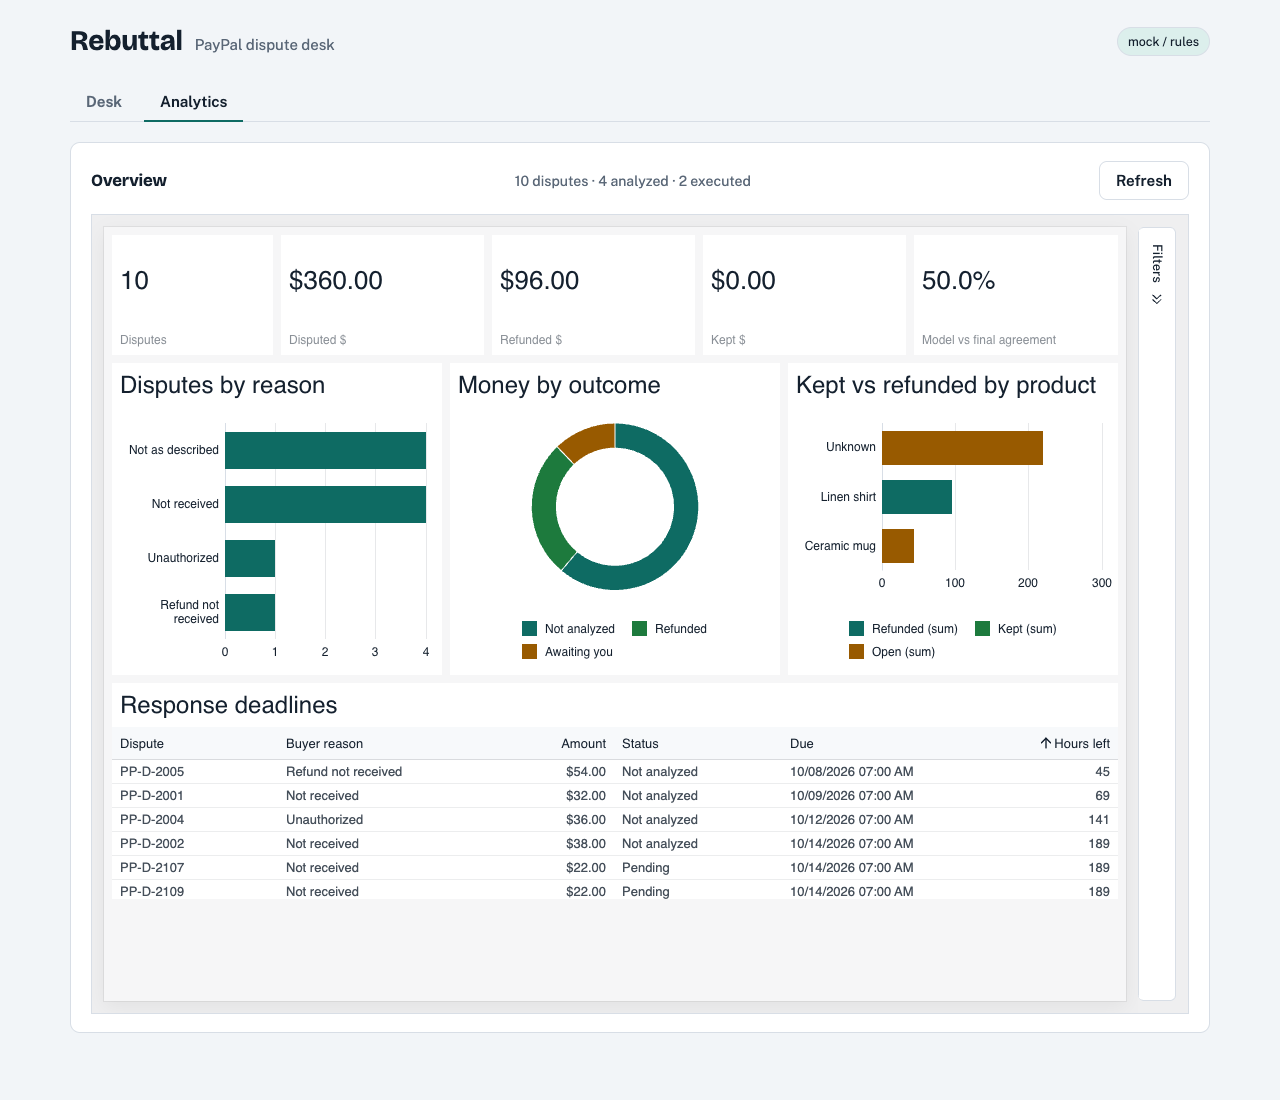
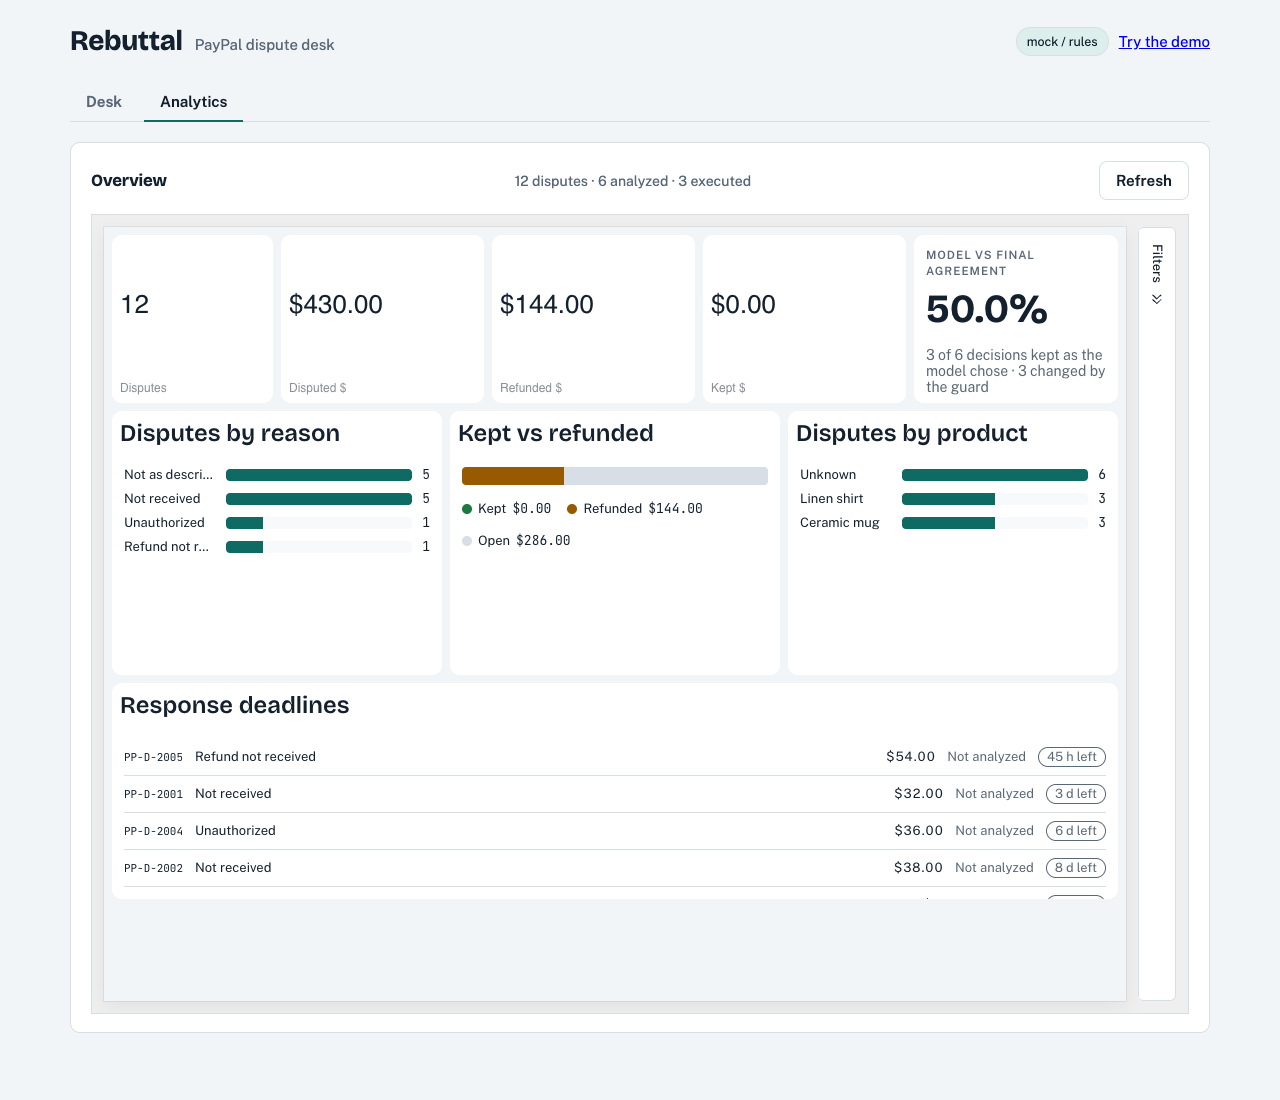
B1b: custom Studio widgets, theme, spec and docs
Fix the colour-scheme spec to read the widget card, give the KPI row room for the agreement detail, refresh the screenshot, and update STATUS, QUEUE and docs/ag-studio.md.

diff --git a/frontend/src/components/analytics/studioConfig.ts b/frontend/src/components/analytics/studioConfig.ts
@@ -172,14 +172,14 @@ export const DASHBOARD_STATE: AgReportState<RebuttalRegistry> = {
         },
       },
       widgetLayout: {
-        'kpi-disputes': { xTrack: 0, yTrack: 0, xSpan: 4, ySpan: 8 },
-        'kpi-disputed': { xTrack: 4, yTrack: 0, xSpan: 5, ySpan: 8 },
-        'kpi-refunded': { xTrack: 9, yTrack: 0, xSpan: 5, ySpan: 8 },
-        'kpi-kept': { xTrack: 14, yTrack: 0, xSpan: 5, ySpan: 8 },
-        agreement: { xTrack: 19, yTrack: 0, xSpan: 5, ySpan: 8 },
-        'bar-reason': { xTrack: 0, yTrack: 8, xSpan: 8, ySpan: 20 },
-        'money-split': { xTrack: 8, yTrack: 8, xSpan: 8, ySpan: 20 },
-        'bar-product': { xTrack: 16, yTrack: 8, xSpan: 8, ySpan: 20 },
+        'kpi-disputes': { xTrack: 0, yTrack: 0, xSpan: 4, ySpan: 11 },
+        'kpi-disputed': { xTrack: 4, yTrack: 0, xSpan: 5, ySpan: 11 },
+        'kpi-refunded': { xTrack: 9, yTrack: 0, xSpan: 5, ySpan: 11 },
+        'kpi-kept': { xTrack: 14, yTrack: 0, xSpan: 5, ySpan: 11 },
+        agreement: { xTrack: 19, yTrack: 0, xSpan: 5, ySpan: 11 },
+        'bar-reason': { xTrack: 0, yTrack: 11, xSpan: 8, ySpan: 17 },
+        'money-split': { xTrack: 8, yTrack: 11, xSpan: 8, ySpan: 17 },
+        'bar-product': { xTrack: 16, yTrack: 11, xSpan: 8, ySpan: 17 },
         deadlines: { xTrack: 0, yTrack: 28, xSpan: 24, ySpan: 14 },
       },
     },

diff --git a/frontend/e2e/analytics.spec.ts b/frontend/e2e/analytics.spec.ts
@@ -68,10 +68,11 @@ const readBars = (page: Page, id: string): Promise<Bar[]> =>
 
 const sum = (values: number[]) => values.reduce((total, value) => total + value, 0)
 
-// The agreement widget's box is the Studio widget around it, which is what carries the colour scheme.
+// The agreement widget's card is Studio's .ag-studio-layout-widget-container (the plain .ag-studio-layout-widget is
+// transparent); its background is the theme's widget background, so it changes with the colour scheme.
 const widgetBackground = (page: Page) =>
   widget(page, 'agreement').evaluate((el) => {
-    const box = el.closest('.ag-studio-layout-widget')
+    const box = el.closest('.ag-studio-layout-widget-container')
     if (!box) throw new Error('the agreement widget is not inside a Studio widget')
     return getComputedStyle(box).backgroundColor
   })

diff --git a/docs/ag-studio.md b/docs/ag-studio.md
@@ -77,16 +77,31 @@ import { AgStudio } from 'ag-studio-react'
 - Colour mode comes from the `data-ag-theme-mode` attribute on `<html>` or `<body>`, or on any ancestor with the `ag-theme-mode` class. The built-in modes are `light`, `dark` and `dark-blue`. Define your own mode by passing its name as the second argument, for example `studioTheme.withParams({...}, 'light')`.
 - Widget params go through the same theme: `gridCellTextColor` for grid widgets and `chartAxisLineColor` for chart widgets. The [theme builder](https://www.ag-grid.com/studio/archive/3.0.0/react/theme-builder/) can export theme code.
 - Do not theme Studio with AG Grid's standalone `themeQuartz` or with CSS theme files (project skill).
-- Palette: `preview/template.html` uses accent `#0e6b63` in light mode and `#4cc2b4` in dark mode. The Inbox already uses `themeQuartz` with that palette and the same `data-ag-theme-mode` attribute (`frontend/src/components/Inbox.tsx`), so one attribute switches both. The Studio theme params are the part still to build.
+- Palette: `preview/template.html` uses accent `#0e6b63` in light mode and `#4cc2b4` in dark mode. The Inbox already uses `themeQuartz` with that palette and the same `data-ag-theme-mode` attribute (`frontend/src/components/Inbox.tsx`), so one attribute switches both.
+- Our theme (`DASHBOARD_THEME` in `frontend/src/components/analytics/studioConfig.ts`) sets, for both modes: `accentColor`, `foregroundColor`, `fontFamily`, `gridHeaderBackgroundColor`, the chart palette, and the card look from the preview tokens: `studioCanvasBackgroundColor` (`--bg`), `studioWidgetBackgroundColor` (`--surface`), `studioWidgetBorder` (`--line`, 1px), `studioWidgetBorderRadius` (10, `--r`) and `studioWidgetTitleFontFamily` (the display font). `widgetBorderColor` is a page-layout state value and `headerFontFamily` is not a shared theme param, so neither is used. `e2e/analytics.spec.ts` checks that the card background changes with the colour scheme.
 
-## 6. Custom widgets (planned for part 2, not built in part 1)
+## 6. Custom widgets (built in B1b)
 
 - Define a widget with `AgWidgetDefinition`: `id`, `label`, `icon`, `dataMapping`, `form`, `defaultState`, `formatShape`, `extends` (pre-configures a built-in type such as `grid`) and `comp` (the React component). See [custom widgets](https://www.ag-grid.com/studio/archive/3.0.0/react/custom-widgets/).
 - Register the definitions with the `widgets` prop, built with `createWidgets` imported from `ag-studio-react`. Do not import it from `ag-studio`, so the React defaults apply.
 - `comp` receives `AgWidgetParams`: `api`, `context`, `widgetId`, `widgetType`, `format`, `dataMapping`, `sort`, `config` and `widgetApi`. Load data with `widgetApi.getData(request)`. Set the display state with `widgetApi.setDisplayState(...)`: `displayed`, `loading`, `noData` or `incompleteDataMapping`.
-- The licence limit in section 3 applies: no AG Grid or AG Charts Enterprise features inside custom widgets.
+- The licence limit in section 3 applies: no AG Grid or AG Charts Enterprise features inside custom widgets. Ours are plain React and CSS.
 
-## 7. Studio Agent Framework (planned for part 3)
+What the Analytics tab uses (`frontend/src/components/analytics/widgets/`):
+
+| Type id | Component | Data slots | Dashboard widgets |
+| --- | --- | --- | --- |
+| `rb-ranked-bars` | `RankedBarsWidget` | `category`, `value` | `bar-reason`, `bar-product` |
+| `rb-money-split` | `MoneySplitWidget` | `parts` (kept, refunded, open) | `money-split` |
+| `rb-deadlines` | `DeadlineListWidget` | `cols` | `deadlines` |
+| `rb-agreement` | `AgreementWidget` | `metrics` (rate, compared, agreed, guard changes) | `agreement` |
+
+- `index.ts` holds the four definitions and `RB_WIDGETS`, one module-level `createWidgets<RebuttalRegistry>(...)` result. `RebuttalRegistry` extends `AgRegistry` so the type ids are typed in `AgReportState<RebuttalRegistry>`. `StudioDashboard.tsx` passes `widgets={RB_WIDGETS}` to `AgStudio<RebuttalRegistry>`.
+- `useWidgetRows` is the shared hook. It sets the display state, calls `widgetApi.getData({ fields })` for the fields mapped to the named slots, and drops late answers. A failed request shows `noData`.
+- Each component renders `data-widget-id` (the dashboard widget id), and rows carry `data-testid` plus value attributes, so `frontend/e2e/analytics.spec.ts` checks the numbers against `GET /api/analytics`.
+- Custom widgets read colours and fonts from the CSS variables in `index.css` (`--accent`, `--muted`, `--line`, `--display`), which follow the colour scheme. The card around each widget is Studio's, and takes its colours from the theme (section 5).
+
+## 7. Studio Agent Framework (not built; planned for part 3)
 
 - Users explore data and build or change dashboards in natural language, using an LLM that the host app supplies. Studio ships no model, server or backend, and sends no data to an AG Grid service ([agent overview](https://www.ag-grid.com/studio/archive/3.0.0/react/ai/)). It is opt-in. The project skill says it is experimental and its behaviour varies by LLM.
 - Enable it by registering the module, `<AgStudioProvider modules={[AgStudioAiModule]}>`, then pass `ai={({ api }) => createAiHarness(api, { adapter, promptStarters, models })}` to `AgStudio` ([AI quick start](https://www.ag-grid.com/studio/archive/3.0.0/react/ai-quickstart/)).
@@ -100,7 +115,7 @@ import { AgStudio } from 'ag-studio-react'
 - Cost: npm install only. No licence purchase. The watermark is accepted under the Discord comment (section 3).
 - Fallback if Studio fails to build or run: AG Grid Community plus AG Charts Community with the same endpoints. Both are MIT on npm (`ag-grid-community` 36.2.0, `ag-charts-community` 14.2.0).
 
-Fallback used: no. Studio 3.0.0 built and ran with Vite 8 and React 19 (PR for B1a); the Analytics tab uses it as planned.
+Fallback used: no. Studio 3.0.0 built and ran with Vite 8 and React 19 (PR for B1a); the Analytics tab uses it as planned. B1b replaced the four built-in charts and the grid with custom widgets.
 
 ## 9. NOT VERIFIED
 
@@ -108,9 +123,9 @@ Fallback used: no. Studio 3.0.0 built and ran with Vite 8 and React 19 (PR for B
   watermark shows; the unlicensed banner appears as console errors only. Checked once, in the mock-backed build.
 - Whether the Discord confirmation covers Studio specifically. It was given for AG Grid (repo `CLAUDE.md`).
 - The 45-day trial length. The trial and pricing pages we could reach do not state it, and the pricing page is sales copy.
-- Bundle size, measured in B1a: the lazy Analytics chunk is about 4.4 MB (1.2 MB gzip), and the main chunk grew about
+- Bundle size, measured in B1a and unchanged by B1b: the lazy Analytics chunk is about 4.4 MB (1.2 MB gzip), and the main chunk grew about
   41 kB. Trimming (for example dropping `AllCommunityModule` from the Inbox) is a later task.
 - Dispute coverage. The analytics read one `list_disputes` call, which is not paginated (`PayPalClient.list_disputes`),
   so the totals cover only the first page PayPal returns. Paging through `next_page` is a later task.
 - The Agent Framework with Groq. It needs the backend proxy and an adapter that we write.
-- Custom widget runtime behaviour beyond the documented API.
+- Custom widget runtime behaviour beyond the documented API. Checked in B1b by the Playwright run: `getData` rows are keyed by `field.key` (the widgets read `row[field.key]` and the spec compares the rendered numbers with the API). Studio's dev validations (`enableStudioDevValidations`) logged nothing besides the licence banner on the Analytics tab.

diff --git a/STATUS.md b/STATUS.md
@@ -64,8 +64,16 @@ Read this at the start of a session; update it at the end of every task. Last up
   (`backend/rebuttal/analytics.py`, same API token as the other reads, PayPal read through `client.read_only()`; a
   waiting dispute's due date is read from the dispute because the list summary may omit it). Frontend: lazy-loaded
   **Analytics** tab with an AG Studio 3.0.0 dashboard (`ag-studio` + `ag-studio-react`, unlicensed with the watermark
-  allowed on Discord; five KPIs, three charts, deadlines grid, light and dark). Notes: `docs/ag-studio.md`;
+  allowed on Discord; four Studio KPI values, light and dark). Notes: `docs/ag-studio.md`;
   screenshot `docs/screenshots/analytics.png`. Fallback to Community grid/charts not needed.
+- **Analytics custom widgets and theme (B1 parts 2-3, branch `autopilot/b1-widgets-theme`):** four custom React widgets
+  registered with `createWidgets` (`frontend/src/components/analytics/widgets/`): ranked bars (used for reason and for
+  product), money split (kept, refunded, open), deadline list and model-vs-final agreement. They replace the Studio
+  charts and grid; all data still comes from `GET /api/analytics` (no backend change). The Studio theme takes the
+  preview tokens (canvas, card background, border, radius, title font) in light and dark. `e2e/analytics.spec.ts` now
+  checks every widget against the API and that the card colour follows the colour scheme. The Studio Agent Framework
+  is not built: it needs a backend proxy to Groq plus our own adapter, which is a separate task (and no key goes in
+  the frontend).
 - **Judge demo mode (A6, branch `feat/demo-mode`):** "Try the demo" (`/#demo`) gives each visitor a private mock-only
   Runtime (mock PayPal, rules reasoner, in-memory checkpoints and audit, no database, no tracing) behind the public
   `/api/demo/{session}/...` routes, with hard bounds (40 sessions, 30 min idle, 2 h max age, 16 disputes, 20 creates or
@@ -74,7 +82,7 @@ Read this at the start of a session; update it at the end of every task. Last up
   approve button still runs the one `execute` node, on the mock. Every other `/api` route keeps the token
   (`tests/test_demo_isolation.py`). Frontend: `App.tsx` is now a router shell over `Dashboard`, `DemoApp` and the shared
   `Desk`. Docs: `docs/demo-mode.md`, ADR 0009. Not verified: a run against the deployed Render service.
-- **Tests:** 376 pass (backend), 25 Playwright tests (23 run, 2 skipped); the PayPal write boundary (only `approval.py`'s `execute`) is enforced by tests.
+- **Tests:** 398 pass (backend), 29 Playwright tests (27 run, 2 skipped); the PayPal write boundary (only `approval.py`'s `execute`) is enforced by tests.
 
 ## Known issues (analytics)
 
@@ -91,8 +99,8 @@ Read this at the start of a session; update it at the end of every task. Last up
 ## Next, in order
 
 1. Autopilot queue: `docs/autopilot/QUEUE.md` (source of truth for what is next).
-2. B1 parts 2-3: custom Studio widgets (`createWidgets`) and the Agent Framework (browser adapter proxied through the
-   backend, read-only); trim `AllCommunityModule`. Then frontend slice 2: Studio polish, Render static site, point the dashboard at the
+2. B1 part 3: the Studio Agent Framework (browser adapter proxied through the backend, read-only); trim
+   `AllCommunityModule`. Then frontend slice 2: Studio polish, Render static site, point the dashboard at the
    live sandbox with `VITE_API_BASE` + `VITE_API_TOKEN`. Slice 1 is done (see above). Build and test with
    `REBUTTAL_REASONER=rules`, `REBUTTAL_MOCK=1` to save Groq tokens (`REBUTTAL_PROVIDER=rules` is not a valid value).
 3. Video script by **Oct 12**; rough cut Oct 23.

diff --git a/docs/autopilot/QUEUE.md b/docs/autopilot/QUEUE.md
@@ -108,7 +108,7 @@ once (respects one Groq eval per day), update `backend/evals/RESULTS.md`, `STATU
 `docs/video-script.md`. Change no agent code because of the result. A8 must run on a different day than the holdout2 Groq run (B3), so the
 two do not share one day's Groq quota.
 
-### B1 AG Studio dashboard, first pass — size L — in progress: part 1 (data endpoints, Studio integration, first dashboard view) in review (PR #16); parts 2-3 custom widgets and Agent Framework todo — deadline Oct 23
+### B1 AG Studio dashboard, first pass — size L — in progress: part 1 (data endpoints, Studio integration, first dashboard view) in review (PR #16); parts 2-3: custom widgets and theme in review (B1b, PR #PRN), Agent Framework todo — deadline Oct 23
 Main sponsor prize. Use the `ag-dev` skill and `ag-mcp` for AG Studio APIs in the installed version. Analytics view:
 disputes by reason and by product, money kept vs refunded, response deadlines, model-vs-final agreement from the
 audit log. Custom widgets and a theme matching `preview/`. New read-only backend endpoints for the aggregates (with

diff --git a/docs/autopilot/SKILLS.md b/docs/autopilot/SKILLS.md
@@ -79,3 +79,4 @@ webapp-testing.
 ## Usage notes
 
 One line per task: which skills helped, which did not.
+- B1b (custom widgets and theme): ag-dev helped (createWidgets, registry typing, theme param names checked against the type files). ponytail applied: no backend change, no new dependency, no new CSS (widgets use inline styles and the index.css variables). No new skills installed.
